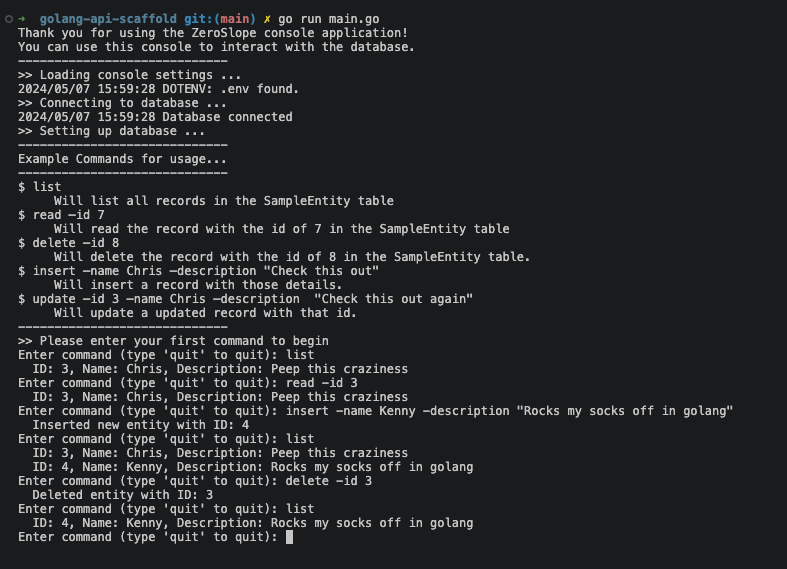
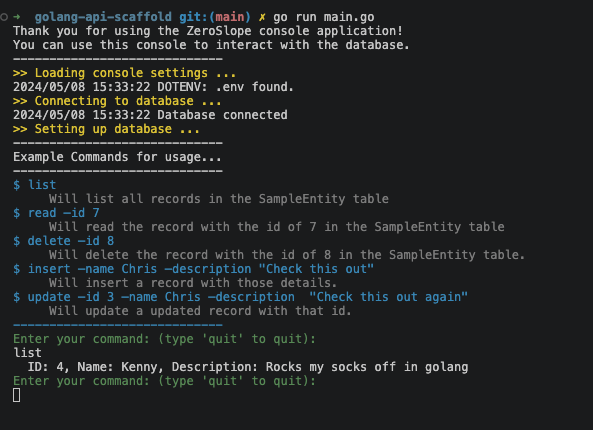
Updates to fix sub package and update image

Changed region(s): [[0.0, 0.0, 0.941, 0.9674]]

diff --git a/cmd/console/console.go b/cmd/console/console.go
@@ -19,10 +19,10 @@ func Execute() {
 	fmt.Println("You can use this console to interact with the database. ")
 	fmt.Println("-----------------------------")
 
-	fmt.Println(">> Loading console settings ...")
+	printYellow(">> Loading console settings ...")
 	LoadDotEnv()
 
-	fmt.Println(">> Connecting to database ...")
+	printYellow(">> Connecting to database ...")
 	portString := os.Getenv("DB_PORT")
 	port, err := strconv.Atoi(portString)
 	if err != nil {
@@ -38,32 +38,31 @@ func Execute() {
 	)
 	db := database.GetDatabase()
 
-	fmt.Println(">> Setting up database ...")
+	printYellow(">> Setting up database ...")
 	database.BuildDatabase()
 
 	fmt.Println("-----------------------------")
 	fmt.Println("Example Commands for usage...")
 	fmt.Println("-----------------------------")
-	fmt.Println("$ list")
-	fmt.Println("     Will list all records in the SampleEntity table ")
-	fmt.Println("$ read —id 7")
-	fmt.Println("     Will read the record with the id of 7 in the SampleEntity table")
-	fmt.Println("$ delete —id 8 ")
-	fmt.Println("     Will delete the record with the id of 8 in the SampleEntity table.")
-	fmt.Println("$ insert —name Chris —description \"Check this out\"")
-	fmt.Println("     Will insert a record with those details.")
-	fmt.Println("$ update —id 3 —name Chris —description  \"Check this out again\"")
-	fmt.Println("     Will update a updated record with that id.")
-	fmt.Println("-----------------------------")
+	printBlue("$ list")
+	printGray("     Will list all records in the SampleEntity table ")
+	printBlue("$ read —id 7")
+	printGray("     Will read the record with the id of 7 in the SampleEntity table")
+	printBlue("$ delete —id 8 ")
+	printGray("     Will delete the record with the id of 8 in the SampleEntity table.")
+	printBlue("$ insert —name Chris —description \"Check this out\"")
+	printGray("     Will insert a record with those details.")
+	printBlue("$ update —id 3 —name Chris —description  \"Check this out again\"")
+	printGray("     Will update a updated record with that id.")
+	printBlue("-----------------------------")
 
-	fmt.Println(">> Please enter your first command to begin")
 	reader := bufio.NewReader(os.Stdin)
 	for {
-		fmt.Print("Enter command (type 'quit' to quit): ")
+		printGreen("Enter your command: (type 'quit' to quit): ")
 		cmd, _ := reader.ReadString('\n')
 		cmd = strings.TrimSpace(cmd)
 		if cmd == "quit" {
-			fmt.Println("Exiting the application...")
+			printRed("Exiting the application...")
 			break
 		}
 		HandleCommands(cmd, db)

diff --git a/cmd/console/colors.go b/cmd/console/colors.go
@@ -1,0 +1,28 @@
+package console
+
+import "fmt"
+
+// printGray prints the provided message in gray color.
+func printGray(message string) {
+	fmt.Printf("\033[90m%s\033[0m\n", message)
+}
+
+// printGreen prints the provided message in green color.
+func printGreen(message string) {
+	fmt.Printf("\033[32m%s\033[0m\n", message)
+}
+
+// printBlue prints the provided message in blue color.
+func printBlue(message string) {
+	fmt.Printf("\033[34m%s\033[0m\n", message)
+}
+
+// printRed prints the provided message in red color.
+func printRed(message string) {
+	fmt.Printf("\033[31m%s\033[0m\n", message)
+}
+
+// printYellow prints the provided message in yellow color.
+func printYellow(message string) {
+	fmt.Printf("\033[33m%s\033[0m\n", message)
+}

diff --git a/cmd/http/http.go b/cmd/http/http.go
@@ -3,16 +3,12 @@ package http
 import (
 	"fmt"
 
+	routes "zeroslope/cmd/http/routes"
 	"zeroslope/config"
 	"zeroslope/database"
-	"zeroslope/http/routes"
 
 	"github.com/gin-contrib/cors"
 )
-
-func main() {
-	Execute()
-}
 
 // @title ZeroSlope API
 // @version 2.0
@@ -45,5 +41,5 @@ func Execute() {
 	fmt.Println(">> Starting service ...")
 	router.Run(cfg.Server.Port)
 
-	fmt.Println("## Success! Service is available at http://localhost:%d", cfg.Server.Port)
+	fmt.Println("## Success! Service is available at http://localhost: %d", cfg.Server.Port)
 }
